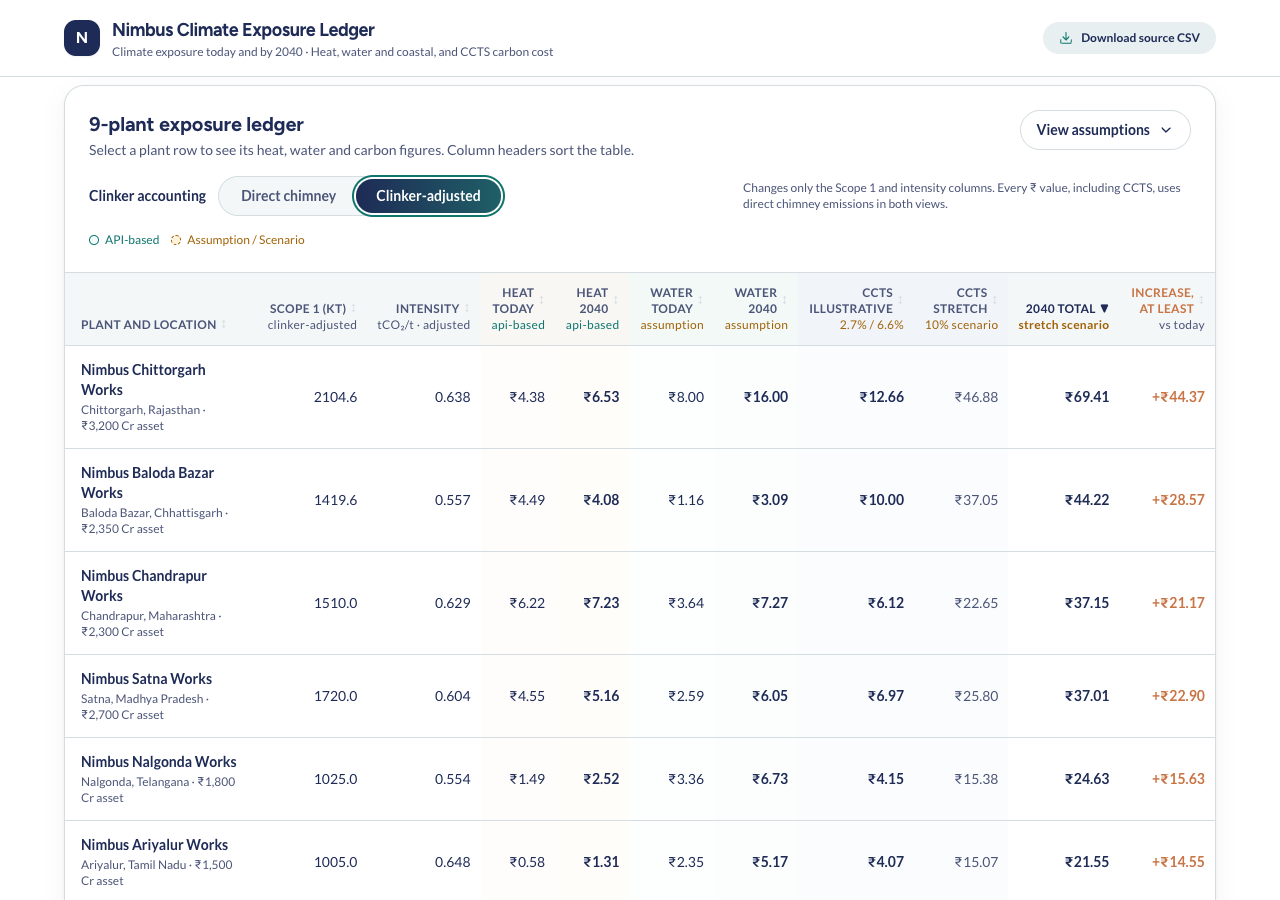
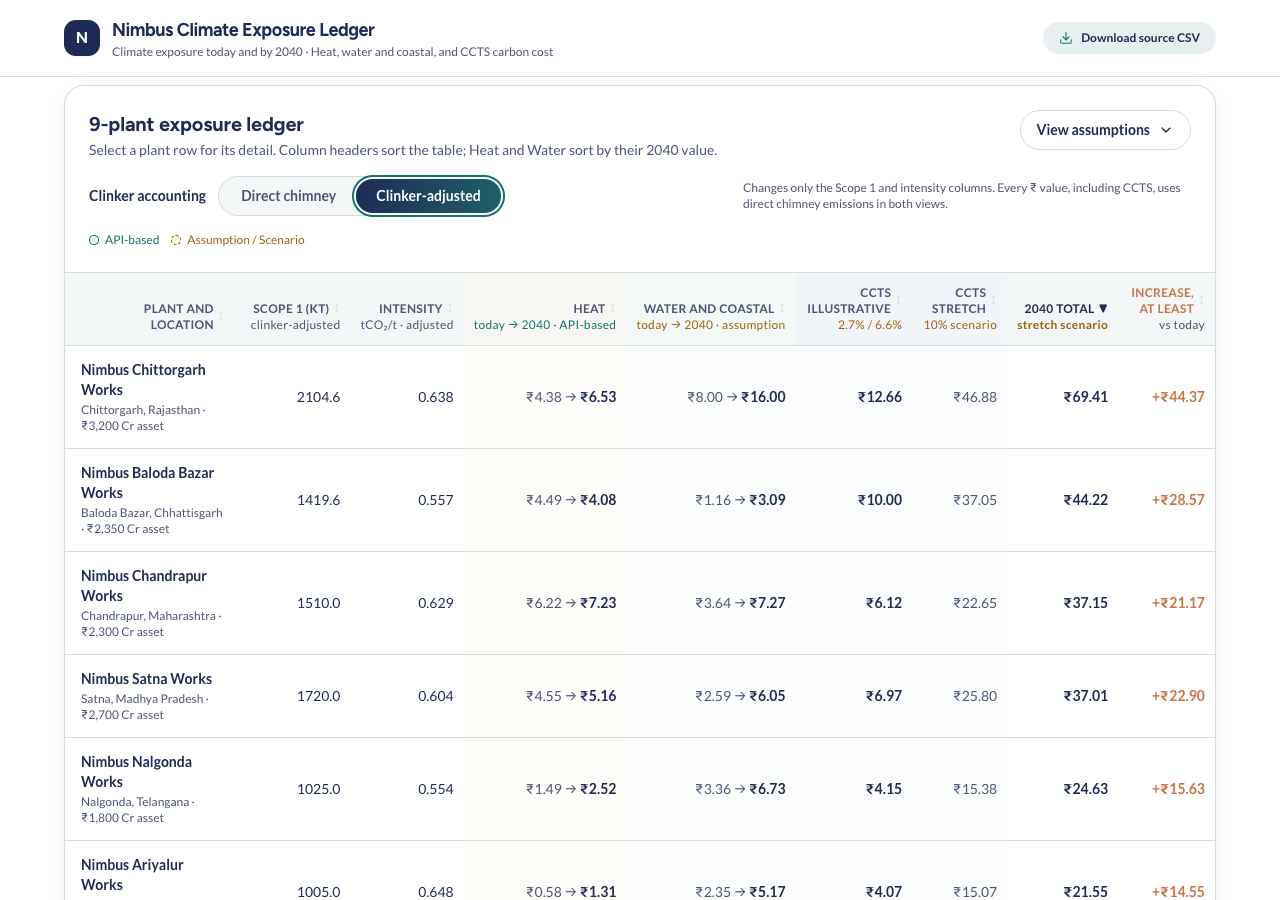
ui: merge today and 2040 into one cell per component in the ledger; refresh screenshots

diff --git a/src/App.tsx b/src/App.tsx
@@ -583,7 +583,7 @@ export default function App() {
                   9-plant exposure ledger
                 </h2>
                 <p className="text-sm text-oren-muted mt-0.5">
-                  Select a plant row to see its heat, water and carbon figures. Column headers sort the table.
+                  Select a plant row for its detail. Column headers sort the table; Heat and Water sort by their 2040 value.
                 </p>
               </div>
               <button
@@ -653,13 +653,11 @@ export default function App() {
               <thead className="bg-oren-surface text-xs font-semibold text-oren-muted uppercase tracking-wider border-b border-oren-line">
                 <tr>
                   {([
-                    { key: 'plant', label: 'Plant and location', sub: '', subCls: '', cls: 'px-4 min-w-[190px] text-left sticky left-0 z-10 bg-oren-surface shadow-[1px_0_0_#D5DDE0]' },
+                    { key: 'plant', label: 'Plant and location', sub: '', subCls: '', cls: 'px-4 min-w-[170px] text-left sticky left-0 z-10 bg-oren-surface shadow-[1px_0_0_#D5DDE0]' },
                     { key: 'scope1', label: 'Scope 1 (kt)', sub: clinkerAdjusted ? 'clinker-adjusted' : 'direct chimney', subCls: 'lowercase text-oren-muted', cls: 'px-2.5' },
                     { key: 'intensity', label: 'Intensity', sub: `tCO₂/t · ${clinkerAdjusted ? 'adjusted' : 'direct'}`, subCls: 'normal-case text-oren-muted', cls: 'px-2.5' },
-                    { key: 'heatToday', label: 'Heat today', sub: 'api-based', subCls: 'lowercase text-oren-teal', cls: 'px-2.5 bg-orange-50/40' },
-                    { key: 'heat2040', label: 'Heat 2040', sub: 'api-based', subCls: 'lowercase text-oren-teal', cls: 'px-2.5 bg-orange-50/40' },
-                    { key: 'waterToday', label: 'Water today', sub: 'assumption', subCls: 'lowercase text-oren-amber', cls: 'px-2.5 bg-green-50/40' },
-                    { key: 'water2040', label: 'Water 2040', sub: 'assumption', subCls: 'lowercase text-oren-amber', cls: 'px-2.5 bg-green-50/40' },
+                    { key: 'heat2040', label: 'Heat', sub: 'today → 2040 · API-based', subCls: 'normal-case text-oren-teal', cls: 'px-2.5 bg-orange-50/40' },
+                    { key: 'water2040', label: 'Water and coastal', sub: 'today → 2040 · assumption', subCls: 'normal-case text-oren-amber', cls: 'px-2.5 bg-green-50/40' },
                     { key: 'cctsNotified', label: 'CCTS illustrative', sub: '2.7% / 6.6%', subCls: 'lowercase text-oren-amber', cls: 'px-2.5 bg-slate-100' },
                     { key: 'ccts10', label: 'CCTS stretch', sub: '10% scenario', subCls: 'lowercase text-oren-amber', cls: 'px-2.5 bg-slate-100' },
                     { key: 'total2040', label: '2040 total', sub: 'stretch scenario', subCls: 'lowercase font-semibold text-oren-amber', cls: 'px-2.5 font-bold text-oren-navy' },
@@ -726,20 +724,12 @@ export default function App() {
                         {intensity.toFixed(3)}
                       </td>
 
-                      <td className="px-2.5 py-3.5 text-right tabular-nums text-oren-navy bg-orange-50/20">
-                        ₹{heatToday.toFixed(2)}
+                      <td className="px-2.5 py-3.5 text-right tabular-nums text-oren-navy bg-orange-50/30 whitespace-nowrap">
+                        <span className="text-oren-muted">₹{heatToday.toFixed(2)}</span> <span aria-hidden="true" className="text-oren-muted">→</span> <span className="font-semibold">₹{heat2040.toFixed(2)}</span>
                       </td>
 
-                      <td className="px-2.5 py-3.5 text-right tabular-nums text-oren-navy font-semibold bg-orange-50/30">
-                        ₹{heat2040.toFixed(2)}
-                      </td>
-
-                      <td className="px-2.5 py-3.5 text-right tabular-nums text-oren-navy bg-green-50/20">
-                        ₹{waterToday.toFixed(2)}
-                      </td>
-
-                      <td className="px-2.5 py-3.5 text-right tabular-nums text-oren-navy font-semibold bg-green-50/30">
-                        ₹{water2040.toFixed(2)}
+                      <td className="px-2.5 py-3.5 text-right tabular-nums text-oren-navy bg-green-50/30 whitespace-nowrap">
+                        <span className="text-oren-muted">₹{waterToday.toFixed(2)}</span> <span aria-hidden="true" className="text-oren-muted">→</span> <span className="font-semibold">₹{water2040.toFixed(2)}</span>
                       </td>
 
                       <td className="px-2.5 py-3.5 text-right tabular-nums font-semibold text-oren-navy bg-slate-50/60">
@@ -777,17 +767,11 @@ export default function App() {
                   <td className="px-2.5 py-3.5 text-right tabular-nums">
                     {((clinkerAdjusted ? portfolio_summary.portfolio_totals.total_clinker_adjusted_scope1_kt : portfolio_summary.portfolio_totals.total_scope1_co2_kt) / (portfolio_summary.portfolio_totals.total_cement_output_fy2025_26_mt * 1000)).toFixed(3)}
                   </td>
-                  <td className="px-2.5 py-3.5 text-right tabular-nums bg-orange-50/40">
-                    ₹{baseline.heat_component_api_based_inr_cr_per_year.toFixed(2)}
+                  <td className="px-2.5 py-3.5 text-right tabular-nums bg-orange-50/40 whitespace-nowrap">
+                    <span className="text-oren-muted font-normal">₹{baseline.heat_component_api_based_inr_cr_per_year.toFixed(2)}</span> → ₹{horizon.heat_component_api_based_inr_cr_per_year.toFixed(2)}
                   </td>
-                  <td className="px-2.5 py-3.5 text-right tabular-nums bg-orange-50/40">
-                    ₹{horizon.heat_component_api_based_inr_cr_per_year.toFixed(2)}
-                  </td>
-                  <td className="px-2.5 py-3.5 text-right tabular-nums bg-green-50/40">
-                    ₹{baseline.water_coastal_component_judgement_inr_cr_per_year.toFixed(2)}
-                  </td>
-                  <td className="px-2.5 py-3.5 text-right tabular-nums bg-green-50/40">
-                    ₹{horizon.water_coastal_component_judgement_inr_cr_per_year.toFixed(2)}
+                  <td className="px-2.5 py-3.5 text-right tabular-nums bg-green-50/40 whitespace-nowrap">
+                    <span className="text-oren-muted font-normal">₹{baseline.water_coastal_component_judgement_inr_cr_per_year.toFixed(2)}</span> → ₹{horizon.water_coastal_component_judgement_inr_cr_per_year.toFixed(2)}
                   </td>
                   <td className="px-2.5 py-3.5 text-right tabular-nums bg-slate-100">
                     ₹{cctsNotified2040.toFixed(2)}
